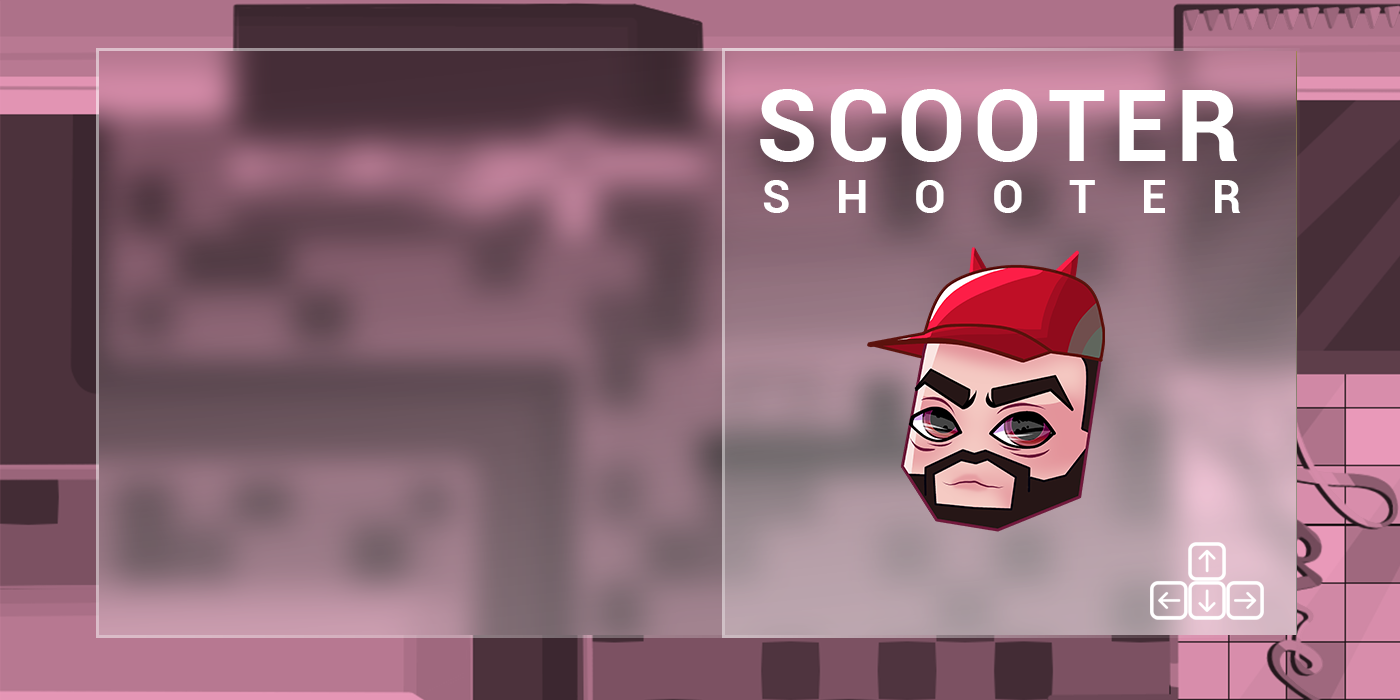
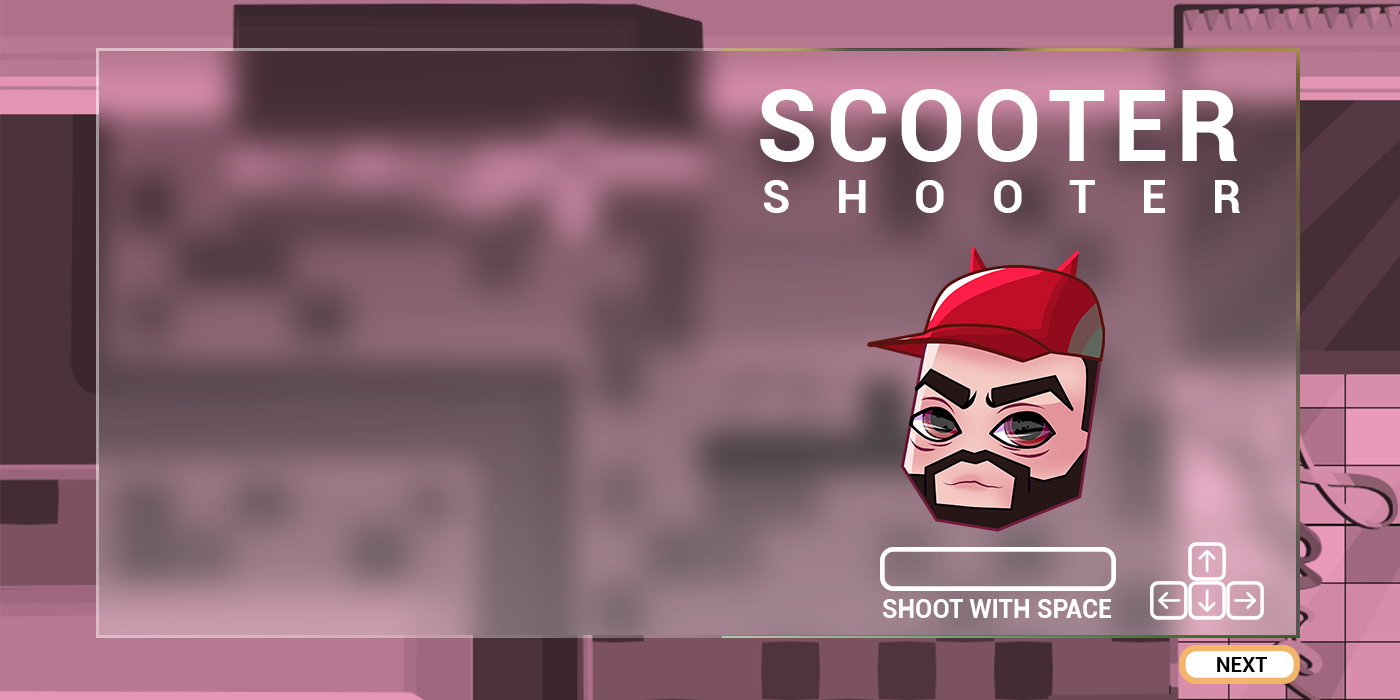
Ganamos

Changed region(s): [[0.4914, 0.51, 0.9521, 0.99], [0.8293, 0.42, 0.9521, 0.54], [0.5221, 0.06, 0.9214, 0.09]]

diff --git a/sketch.js b/sketch.js
@@ -168,7 +168,7 @@ function preload() {
 
 function setup() {
   createCanvas(1400, 700);
-  pantalla = 0;
+  pantalla = 17;
   levelA = new LevelA();
   taylor = new Tay(levelA.getMapReference());
   enemyK = new Kanye(levelA.getMapReference());
@@ -188,13 +188,8 @@ function setup() {
   mer = new GataMer(mapaMinij3.getMapReferenceMj3());
 
   bala = new BalaMinJ5();
-  
-  
-  
-
 
   setupMJ1();
-  
 }
 
   MJ5 = new MinJ5();
@@ -351,6 +346,7 @@ function validarDisparoScooter(mar, bala) {
   }
   return false;
 }
+
 
   function verifyEnemy() {
     switch (pantalla) {
@@ -897,40 +893,22 @@ function validarDisparoScooter(mar, bala) {
   function personajeMJ1() {
 
     image(tay1,posicionX,posicionY,60,60);
-    /*if (arriba) {
-      posicionY -= 10;
-    }
-    if (abajo) {
-      posicionY += 10;
-    }
-  
-    if (izquierda) {
-      posicionX -= 10;
-    }
-    if (derecha) {
-      posicionX += 10;
-    }*/
 
     if(keyIsPressed){
-    switch (key) {
-      case "w":
-      case "W":
+    switch (keyCode) {
+      case UP_ARROW:
         posicionY -= 2;
         break;
-      case "s":
-      case "S":
+      case DOWN_ARROW:
         posicionY += 2;
         break;
   
-      case "a":
-      case "A":
+      case LEFT_ARROW:
         posicionX -= 2;
         break;
-      case "d":
-      case "D":
+      case RIGHT_ARROW:
         posicionX += 2;
         break;
-  
     }
   }
   
@@ -958,9 +936,6 @@ function validarDisparoScooter(mar, bala) {
   }
 
 
-  function mostrarMJ5() {
-    
-  }
 
   function mousePressed() {
     //seguir a instrucciones
@@ -1116,14 +1091,22 @@ function validarDisparoScooter(mar, bala) {
           taylor5.yPos = (taylor5.pjFil * 100);
         }
       break;
+      //minijuego 2 encontrar corazón roto
       case 14:
         if (dist(mouseX, mouseY, 450, 350) < 100) {
           pantalla = 5;
         }
       break;
+      //minijuego 4 encontrar kim 
       case 16:
         if (dist(mouseX, mouseY, 250, 350) < 100) {
           pantalla = 9;
+        }
+      break;
+      //terminar minijuego 5 pasar a pantalla ganaste
+      case 17:
+        if (dist(mouseX, mouseY, 1250, 650) < 100) {
+          pantalla = 12;
         }
       break;
     }

diff --git a/MinJ5.js b/MinJ5.js
@@ -1,12 +1,9 @@
 class MinJ5{
     constructor(x,y){
-
         this.x = 390;
         this.y = 600;
         this.cargador = []
         this.velDisparo = 0;
-
-
     }
     mostrarTanque(){
         fill(255,0,0);
@@ -17,23 +14,21 @@ class MinJ5{
         rect(this.x + 18, this.y - 20, 5 , 5);
 
         for (let index = 0; index < this.cargador.length; index++) {
-        
             this.cargador[index].pintar();
             this.cargador[index].mover();
         }
-
     }
 
     moverTanque(){
         if(keyIsPressed){
-            switch(key){
-                case 'a':
+            switch(keyCode){
+                case LEFT_ARROW:
                     this.x -=4;
                     break;
-                case 'd':
+                case RIGHT_ARROW:
                     this.x +=4;
                     break;
-               case 'l':
+               case 32:
                    if(this.velDisparo > 30) {
                         const newBala = new BalaMinJ5(this.x,this.y)
                         this.cargador.push(newBala);
@@ -42,14 +37,7 @@ class MinJ5{
                     break;
             }
         }
-
-
     }
-
-    
-
-    
-
     sumarVelDisparo() {
         this.velDisparo++;
     }
